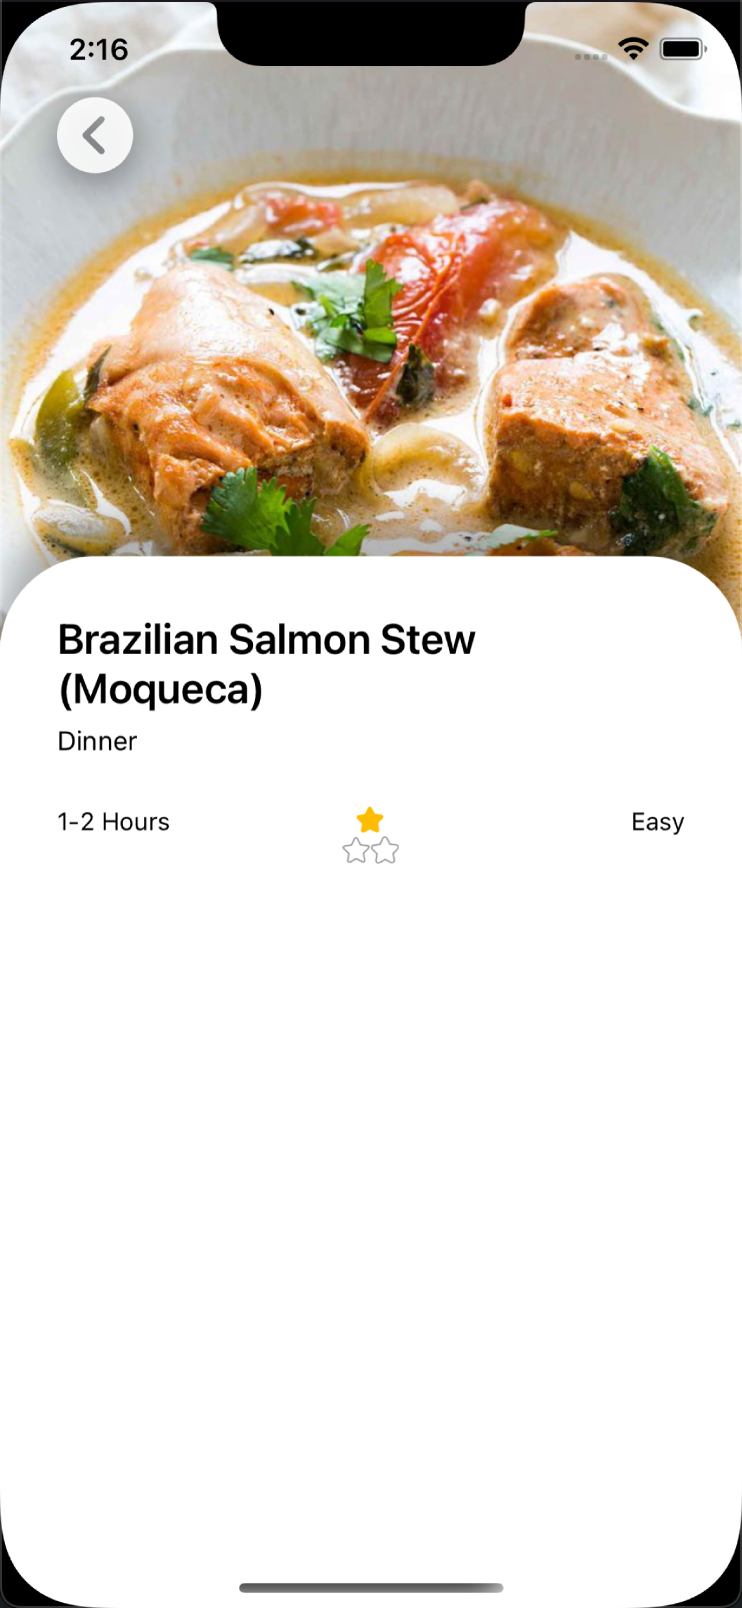
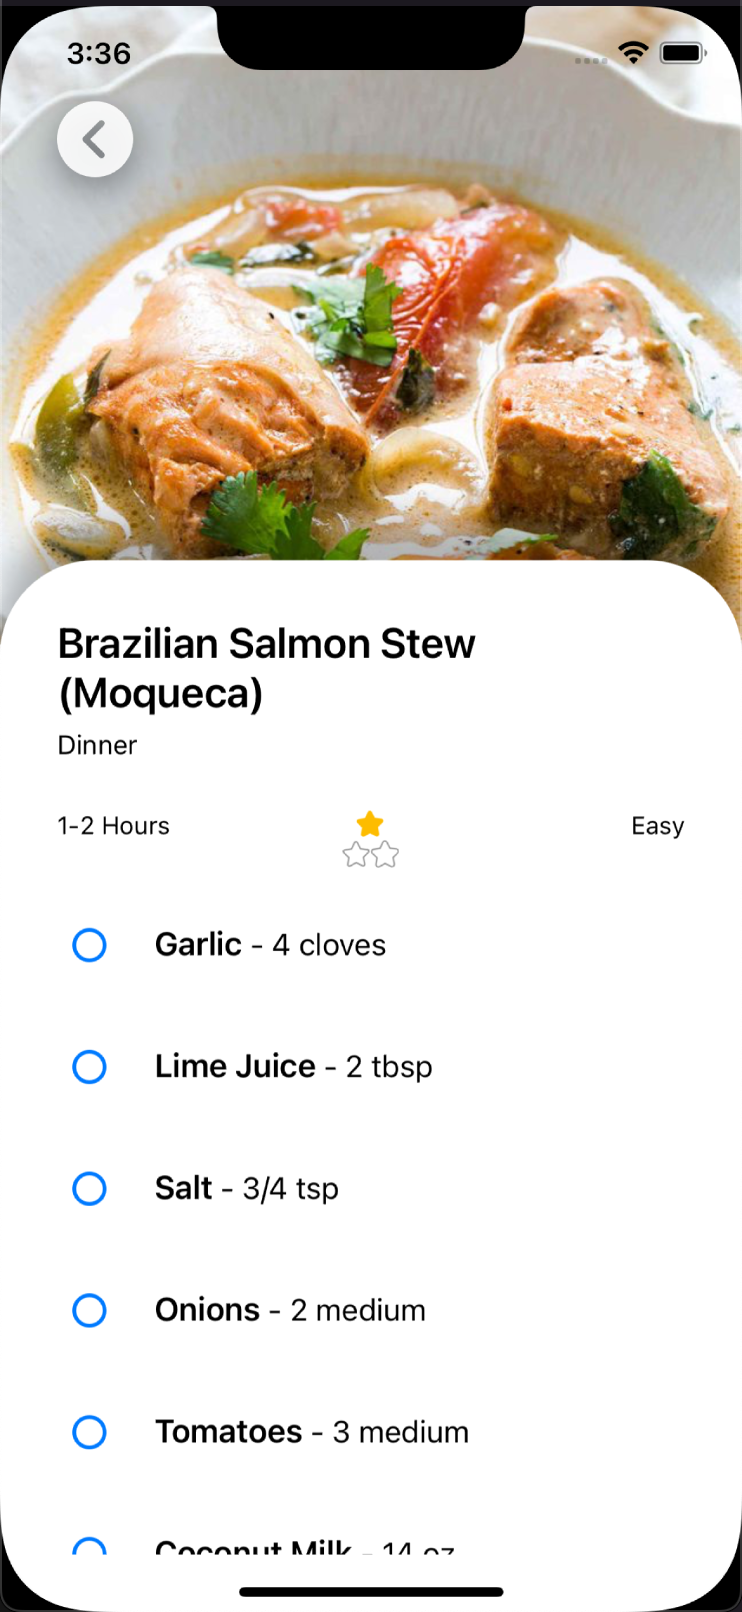
Final Updates to README

diff --git a/Xamarin/InstaPrep/InstaPrep/Views/RecipeDetailPage.xaml b/Xamarin/InstaPrep/InstaPrep/Views/RecipeDetailPage.xaml
@@ -5,6 +5,7 @@
     xmlns:xct="http://xamarin.com/schemas/2020/toolkit" Title="{Binding Title}" Shell.TabBarIsVisible="False"
     xmlns:convert="clr-namespace:InstaPrep.Converters"
     xmlns:ffimageloadingsvg="clr-namespace:FFImageLoading.Svg.Forms;assembly=FFImageLoading.Svg.Forms"
+    x:Name="recipeDetailPage"
     xmlns:local="clr-namespace:InstaPrep.ViewModels" Shell.NavBarIsVisible="False" x:DataType="local:RecipeDetailViewModel">
 
     <ContentPage.Resources>
@@ -49,6 +50,33 @@
                             </StackLayout>
 
                         </Grid>
+
+                        <!-- Ingredient List -->
+                        <CollectionView Margin="0" VerticalOptions="FillAndExpand" ItemsSource="{Binding BindingContext.RecipeIngredients, Source={x:Reference recipeDetailPage}}" SelectionMode="None">
+                            <CollectionView.ItemTemplate>
+                                <DataTemplate>
+                                    <Grid Padding="0,10" x:DataType="model:Ingredient">
+                       
+                                       <StackLayout Margin="0" Orientation="Horizontal">
+                                            <CheckBox VerticalOptions="Center" />
+                                            <Label VerticalOptions="Center" FontSize="16">
+                                            <Label.FormattedText>
+                                                <FormattedString>
+                                                    <FormattedString.Spans>
+                                                        <Span FontAttributes="Bold" Text="{Binding Title}"/>
+                                                        <Span Text=" - "/>
+                                                        <Span Text="{Binding Measure}"/>
+                                                    </FormattedString.Spans>
+                                                </FormattedString>
+                                            </Label.FormattedText>
+                                        </Label>
+
+                                        </StackLayout>
+                                       
+                                    </Grid>
+                                </DataTemplate>
+                            </CollectionView.ItemTemplate>
+                        </CollectionView>
                     </StackLayout>
 
                 </Frame>

diff --git a/Xamarin/InstaPrep/InstaPrep/Services/MockDataStore.cs b/Xamarin/InstaPrep/InstaPrep/Services/MockDataStore.cs
@@ -1,5 +1,6 @@
 using System;
 using System.Collections.Generic;
+using System.Collections.ObjectModel;
 using System.Linq;
 using System.Threading.Tasks;
 using InstaPrep.Models;
@@ -12,6 +13,45 @@ namespace InstaPrep.Services
 
         public MockDataStore()
         {
+            var defaultIngredients = new ObservableCollection<Ingredient>()
+            {
+                new Ingredient()
+                {
+                    Title = "Garlic",
+                    Measure = "4 cloves"
+                },
+                new Ingredient()
+                {
+                    Title = "Lime Juice",
+                    Measure = "2 tbsp"
+                },
+                new Ingredient()
+                {
+                    Title = "Salt",
+                    Measure = "3/4 tsp"
+                },
+                new Ingredient()
+                {
+                    Title = "Onions",
+                    Measure = "2 medium"
+                },
+                new Ingredient()
+                {
+                    Title = "Tomatoes",
+                    Measure = "3 medium"
+                },
+                new Ingredient()
+                {
+                    Title = "Coconut Milk",
+                    Measure = "14 oz"
+                },
+                new Ingredient()
+                {
+                    Title = "Green Bell Pepper",
+                    Measure = "1 large"
+                }
+            };
+
             items = new List<Recipe>()
         {
             new Recipe()
@@ -22,24 +62,7 @@ namespace InstaPrep.Services
                 Effort = "Easy",
                 Category = "Dinner",
                 Rating = 1,
-                Ingredients = new List<Ingredient>()
-                {
-                    new Ingredient()
-                    {
-                        Title = "Garlic",
-                        Measure = "4 cloves"
-                    },
-                    new Ingredient()
-                    {
-                        Title = "Lime Juice",
-                        Measure = "2 tbsp"
-                    },
-                    new Ingredient()
-                    {
-                        Title = "Salt",
-                        Measure = "3/4 tsp"
-                    }
-                }
+                Ingredients = defaultIngredients
             },
             new Recipe()
             {
@@ -48,7 +71,8 @@ namespace InstaPrep.Services
                 Duration = "1 Hour",
                 Effort = "Easy",
                 Category = "Dinner",
-                Rating = 3
+                Rating = 3,
+                Ingredients = defaultIngredients
             },
             new Recipe()
             {
@@ -57,7 +81,8 @@ namespace InstaPrep.Services
                 Duration = "1-2 Hours",
                 Effort = "Medium",
                 Category = "Dinner",
-                Rating = 2
+                Rating = 2,
+                Ingredients = defaultIngredients
             },
             new Recipe()
             {
@@ -66,7 +91,8 @@ namespace InstaPrep.Services
                 Duration = "35 Mins",
                 Effort = "Easy",
                 Category = "Breakfast",
-                Rating = 2
+                Rating = 2,
+                Ingredients = defaultIngredients
             },
             new Recipe()
             {
@@ -75,7 +101,8 @@ namespace InstaPrep.Services
                 Duration = "3 Hours",
                 Effort = "Hard",
                 Category = "Dessert",
-                Rating = 1
+                Rating = 1,
+                Ingredients = defaultIngredients
             },
             new Recipe()
             {
@@ -84,7 +111,8 @@ namespace InstaPrep.Services
                 Duration = "30 mins",
                 Effort = "Easy",
                 Category = "Lunch",
-                Rating = 3
+                Rating = 3,
+                Ingredients = defaultIngredients
             },
             new Recipe()
             {
@@ -93,7 +121,8 @@ namespace InstaPrep.Services
                 Duration = "20 Mins",
                 Effort = "Easy",
                 Category = "Lunch",
-                Rating = 1
+                Rating = 1,
+                Ingredients = defaultIngredients
             },
             new Recipe()
             {
@@ -102,7 +131,8 @@ namespace InstaPrep.Services
                 Duration = "3 Hours",
                 Effort = "Hard",
                 Category = "Dessert",
-                Rating = 3
+                Rating = 3,
+                Ingredients = defaultIngredients
             },
             new Recipe()
             {
@@ -111,7 +141,8 @@ namespace InstaPrep.Services
                 Duration = "35 Mins",
                 Effort = "Easy",
                 Category = "Breakfast",
-                Rating = 2
+                Rating = 2,
+                Ingredients = defaultIngredients
             },
             new Recipe()
             {
@@ -120,7 +151,8 @@ namespace InstaPrep.Services
                 Duration = "3 Hours",
                 Effort = "Hard",
                 Category = "Breakfast",
-                Rating = 3
+                Rating = 3,
+                Ingredients = defaultIngredients
             }
         };
         }

diff --git a/Xamarin/InstaPrep/InstaPrep/ViewModels/RecipeDetailViewModel.cs b/Xamarin/InstaPrep/InstaPrep/ViewModels/RecipeDetailViewModel.cs
@@ -22,6 +22,13 @@ namespace InstaPrep.ViewModels
             set => SetProperty(ref selectedRecipe, value);
         }
 
+        ObservableCollection<Ingredient> recipeIngredients;
+        public ObservableCollection<Ingredient> RecipeIngredients
+        {
+            get => recipeIngredients;
+            set => SetProperty(ref recipeIngredients, value);
+        }
+
         public string RecipeId
         {
             get
@@ -46,6 +53,7 @@ namespace InstaPrep.ViewModels
             {
                 var recipe = await DataStore.GetItemAsync(itemId);
                 SelectedRecipe = recipe;
+                RecipeIngredients = recipe.Ingredients;
             }
             catch (Exception)
             {

diff --git a/Xamarin/InstaPrep/InstaPrep/Models/Recipe.cs b/Xamarin/InstaPrep/InstaPrep/Models/Recipe.cs
@@ -1,5 +1,6 @@
 using System;
 using System.Collections.Generic;
+using System.Collections.ObjectModel;
 
 namespace InstaPrep.Models
 {
@@ -14,7 +15,7 @@ namespace InstaPrep.Models
         public string Effort { get; set; } = string.Empty;
         public string Category { get; set; } = string.Empty;
 
-        public List<Ingredient> Ingredients = new List<Ingredient>();
+        public ObservableCollection<Ingredient> Ingredients = new ObservableCollection<Ingredient>();
 
         public Recipe()
         {

diff --git a/README.md b/README.md
@@ -1,20 +1,16 @@
 # InstaPrep
 
-This Xamarin app has been created as a demo app as part of a skills assessment for a potential project.
+This Xamarin app has been created by Adam Lepley as part of a skills assessment for a potential project.
 
 # Screen Shots
 
-Recipe Page             |  Recipe Detail Page
-:-------------------------:|:-------------------------:
-![](/img/recipe_page.png)  |  ![](/img/recipe_details.png)
+Recipe Page             |  Recipe Detail Page|  About Page|  Resume Viewing / Sharing
+:-------------------------:|:-------------------------:|:-------------------------:|:-------------------------:
+<img src="img/recipe_page.png" width="186" height="404" />  |  <img src="img/recipe_details.png" width="186" height="404" />|  <img src="img/about.png" width="186" height="404" />|  <img src="img/resume.png" width="186" height="404" />
 
-
-About Page             |  Resume Viewing / Sharing
-:-------------------------:|:-------------------------:
-![](/img/about.png)  |  ![](/img/resume.png)
 
 # Link to Demo
-https://www.screencast.com/t/bLnyfNENnwq1
+https://www.screencast.com/t/j7fSqNOoXc
 
 # Overview
 The purpose of this exercise is to view how a candidate approaches designing and implementing a simple, but non-trivial Xamarin Forms application. This sample is designed to preview how a candidate tackles design as well to provide a working technical display. If the candidate requires an application idea, we recommend an application such as a file browser or an RSS feed, however, other ideas are warmly welcomed.
